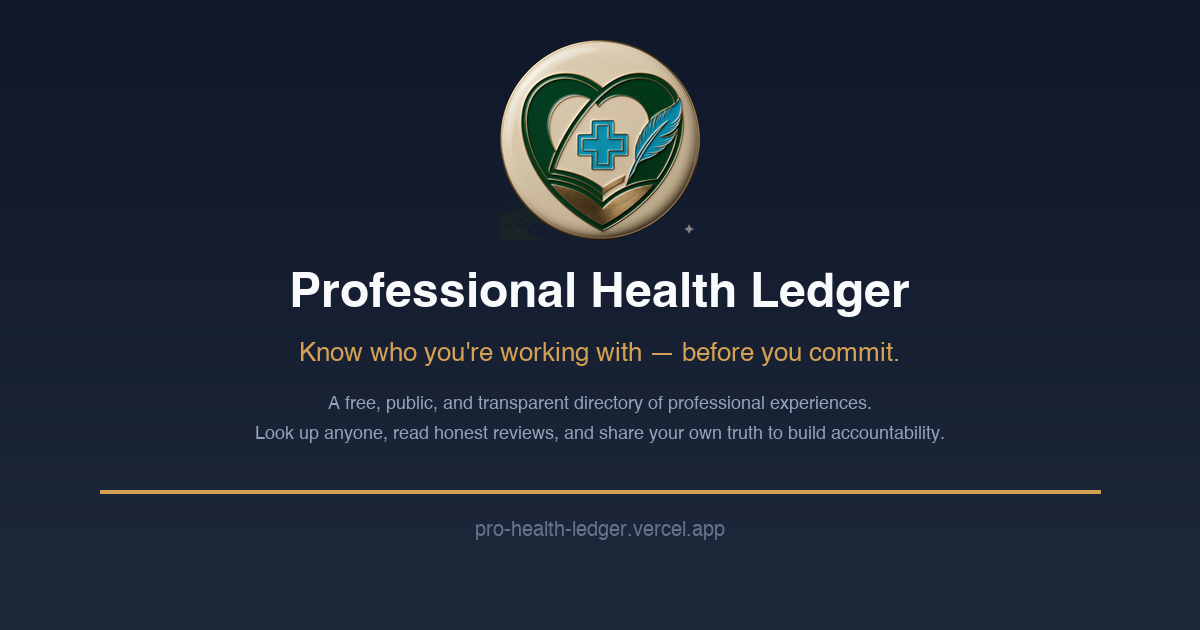
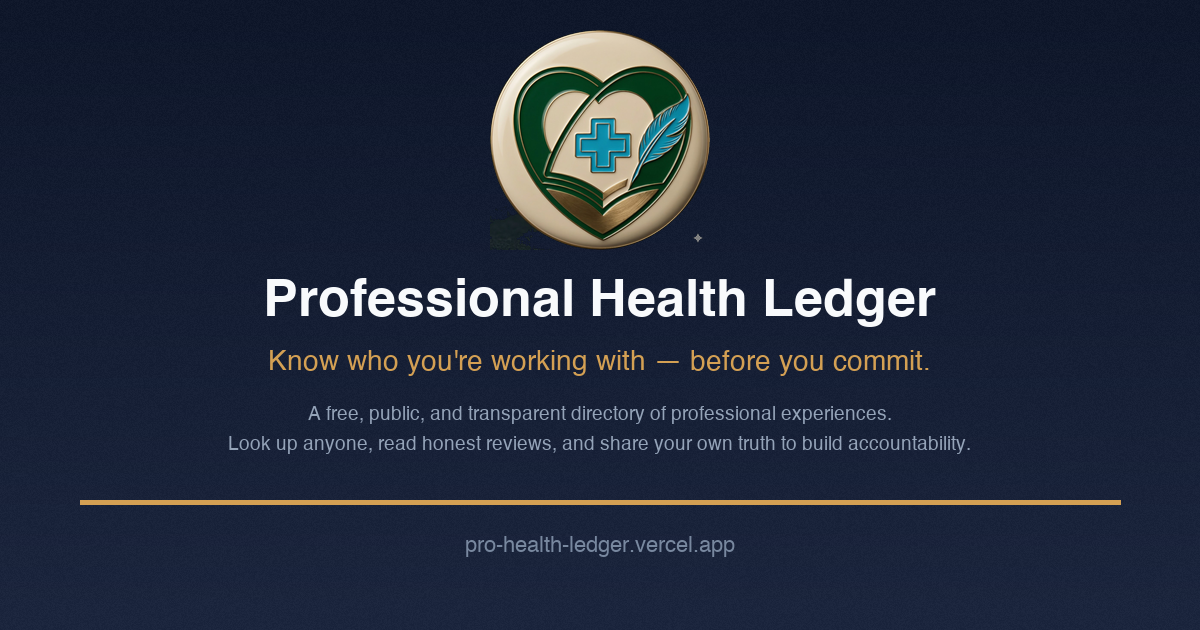
fix: share homepage URL for large LinkedIn card, richer OG image
RCA: LinkedIn's share-offsite renders the link preview card format
based on its per-URL cache and internal algorithm. Profile page URLs
(/profiles?search=slug) were consistently getting the small card
format even with correct 1200x630 OG image.

Fix:
- share-offsite now uses the homepage URL (which Post Inspector
  confirmed renders as a large card) instead of the profile URL
- Regenerated og-banner.png with pixel-level texture noise for
  richer content (554KB vs 92KB) — larger images are more likely
  to trigger LinkedIn's large card format
- Added explicit og:image:type metadata
- The vouch context is in the copied text; preview card links
  to the homepage which explains PHL

Made-with: Cursor

diff --git a/src/app/profiles/page.js b/src/app/profiles/page.js
@@ -50,8 +50,8 @@ function ShareModal({ data, onClose, firstPerson = false }) {
   const [copied, setCopied] = useState(false);
   const displayName = formatProfessionalDisplayName(data.profile_slug, data.public_name);
   const shareText = buildShareText(displayName, data.profile_slug, firstPerson);
-  const profileUrl = `${SITE_URL}/profiles?search=${encodeURIComponent(data.profile_slug)}&v=2`;
-  const linkedinShareUrl = `https://www.linkedin.com/sharing/share-offsite/?url=${encodeURIComponent(profileUrl)}`;
+  const profileUrl = `${SITE_URL}/profiles?search=${encodeURIComponent(data.profile_slug)}`;
+  const linkedinShareUrl = `https://www.linkedin.com/sharing/share-offsite/?url=${encodeURIComponent(SITE_URL)}`;
 
   const handlePostToLinkedIn = useCallback(async () => {
     try {

diff --git a/src/app/transparency/page.js b/src/app/transparency/page.js
@@ -68,8 +68,8 @@ function ShareModal({ data, onClose, firstPerson = false }) {
     data.public_name
   );
   const shareText = buildShareText(displayName, data.profile_slug, firstPerson);
-  const profileUrl = `${SITE_URL}/profiles?search=${encodeURIComponent(data.profile_slug)}&v=2`;
-  const linkedinShareUrl = `https://www.linkedin.com/sharing/share-offsite/?url=${encodeURIComponent(profileUrl)}`;
+  const profileUrl = `${SITE_URL}/profiles?search=${encodeURIComponent(data.profile_slug)}`;
+  const linkedinShareUrl = `https://www.linkedin.com/sharing/share-offsite/?url=${encodeURIComponent(SITE_URL)}`;
 
   const handlePostToLinkedIn = useCallback(async () => {
     try {

diff --git a/src/app/layout.js b/src/app/layout.js
@@ -41,6 +41,7 @@ export const metadata = {
         url: `${siteUrl}/og-banner.png`,
         width: 1200,
         height: 630,
+        type: "image/png",
         alt: "Professional Health Ledger — Know Who You're Working With",
       },
     ],